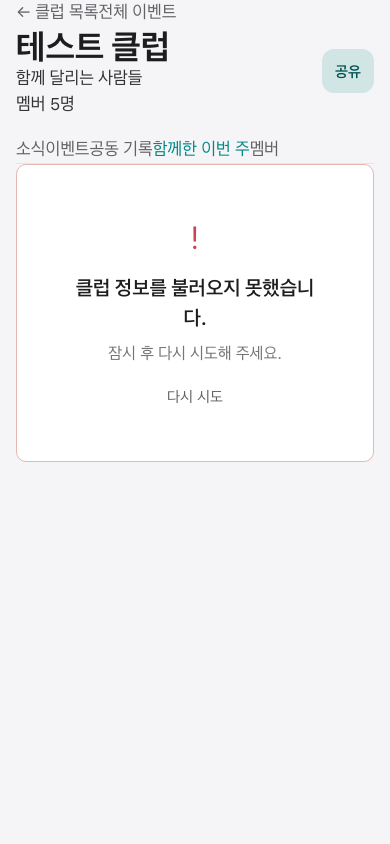
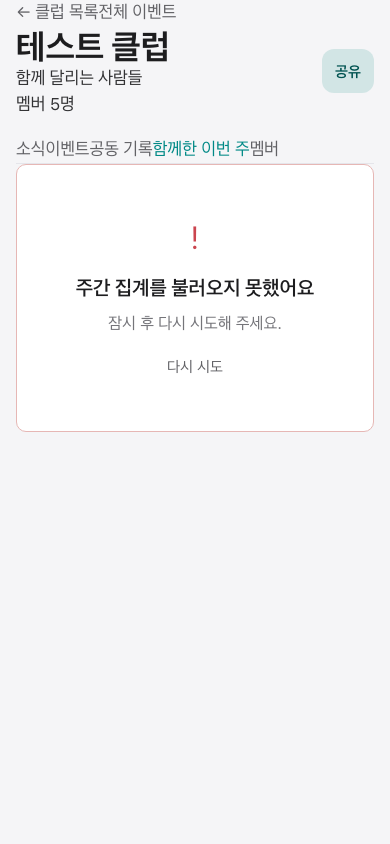
fix: identify weekly statistics failures in the retained club shell

Changed region(s): [[0.2769, 0.3081, 0.7077, 0.4929], [0.7077, 0.3081, 0.8, 0.3697], [0.1846, 0.3081, 0.2769, 0.3697]]

diff --git a/src/pages/group/GroupWeekPage.tsx b/src/pages/group/GroupWeekPage.tsx
@@ -42,7 +42,7 @@ export default function GroupWeekPage() {
   const max = rows[0]?.[1][metric] ?? 0;
   return <div className="space-y-4">
     <GroupSubNav group={group} isCreator={canManageGroup(group, user?.uid, role)} />
-    {loading ? <LoadingSkeleton kind="list" count={5} /> : error ? <ErrorState title={t("error.loadFailed")} onRetry={retry} /> : <>
+    {loading ? <LoadingSkeleton kind="list" count={5} /> : error ? <ErrorState title={t("week.loadFailed")} onRetry={retry} /> : <>
     <header data-testid="C5-0"><h2 data-testid="C5-0-1">{t("subNav.week")} · {monday.toLocaleDateString(i18n.language, { timeZone: "Asia/Seoul" })} – {sunday.toLocaleDateString(i18n.language, { timeZone: "Asia/Seoul" })}</h2>
     <p data-testid="C5-0-3">{t("week.source")}</p></header>
     <section data-testid="C5-1">{weeklyStats ? <div data-testid="C5-1-1" className="grid grid-cols-2 md:grid-cols-5 gap-3">
